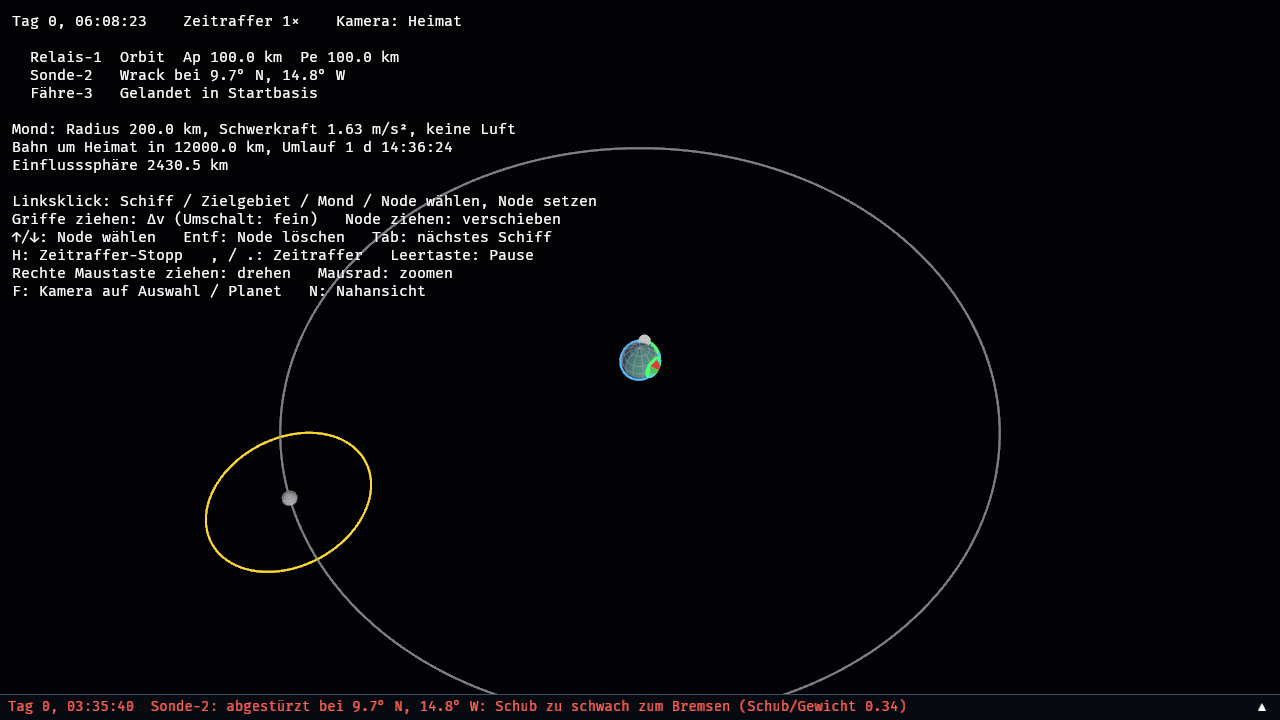
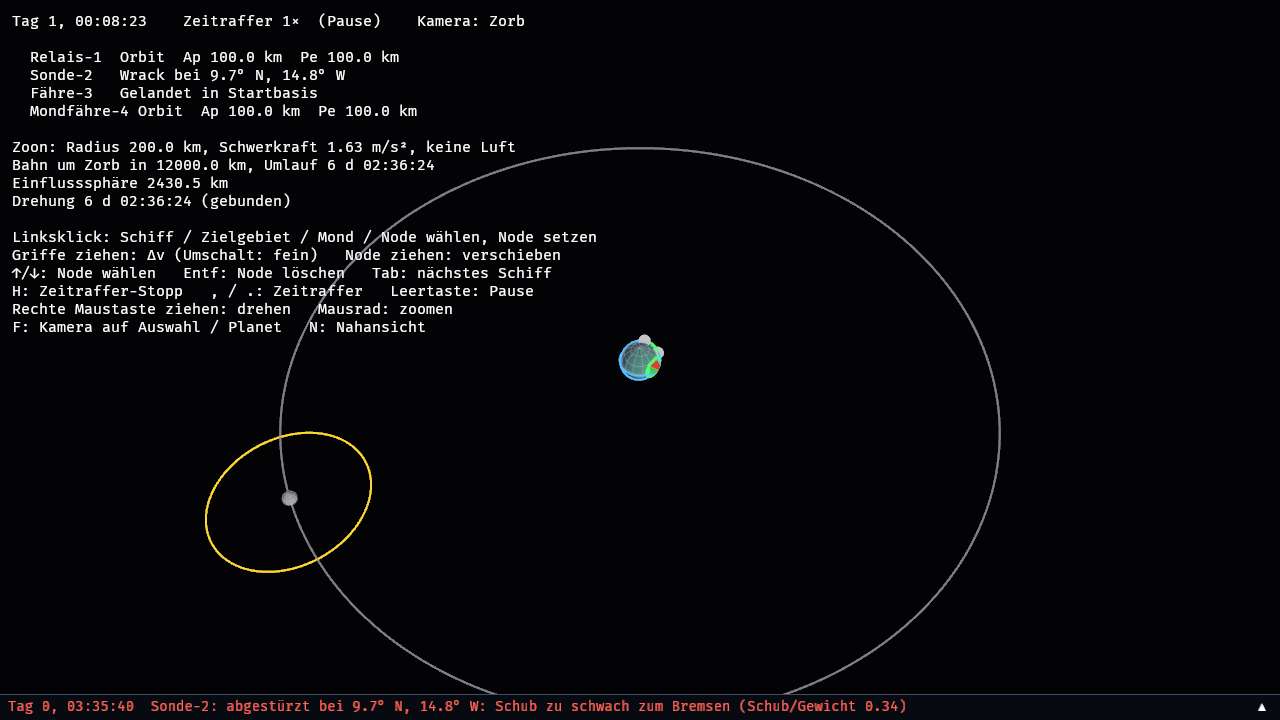
Namen: Zorb, Zoon, Zunn und die Zorbels
Der Heimatplanet heißt Zorb, sein Mond Zoon, die Sonne Zunn (bisher nur
Licht), die Bewohner Zorbels. Geändert sind nur die Namen im Szenario; alle
Anzeigen lesen sie von dort. Doku und die Mond-Bilder im README angepasst.
Alte Spielstände behalten ihre Namen.

Claude-Session: https://claude.ai/code/session_01CpcsHMR5Ewg3zEtE3pVyt3

Changed region(s): [[0.0, 0.1528, 0.4688, 0.4583], [0.25, 0.0, 0.2812, 0.0611]]

diff --git a/crates/sim/src/scenario.rs b/crates/sim/src/scenario.rs
@@ -6,14 +6,14 @@ use crate::landing::LandingZone;
 use crate::world::{Base, VesselParams, World};
 use std::f64::consts::PI;
 
-/// Fiktiver Heimatplanet in Kerbin-Größe: kleine Welt, kurze Umlaufzeiten,
-/// ein Orbit ist mit einer einzigen Stufe erreichbar.
+/// Zorb, der Heimatplanet der Zorbels, in Kerbin-Größe: kleine Welt, kurze
+/// Umlaufzeiten, ein Orbit ist mit einer einzigen Stufe erreichbar.
 pub fn home_planet() -> Body {
     let radius = 600_000.0;
     let surface_gravity = 9.81;
     let gm = surface_gravity * radius * radius;
     Body {
-        name: "Heimat".into(),
+        name: "Zorb".into(),
         gm,
         radius,
         rotation_period: 6.0 * 3600.0,
@@ -36,7 +36,7 @@ fn home_system_radius(gm: f64) -> f64 {
     DISTANCE * (gm / SUN_GM).powf(0.4)
 }
 
-/// Mond wie der Mun in KSP: 200 km Radius, g = 1,63 m/s², ohne Luft, auf
+/// Zoon, der Mond von Zorb, wie der Mun in KSP: 200 km Radius, g = 1,63 m/s², ohne Luft, auf
 /// einer Kreisbahn 12.000 km über dem Mittelpunkt des Planeten (Umlauf etwa
 /// 38,6 h, Einflusssphäre etwa 2.430 km). Gebundene Rotation: Er zeigt dem
 /// Planeten immer dieselbe Seite, Länge 0° zum Planeten hin (deshalb beginnt
@@ -45,7 +45,7 @@ pub fn moon(planet: &Body) -> Body {
     let radius = 200_000.0;
     let distance = 12_000_000.0;
     Body {
-        name: "Mond".into(),
+        name: "Zoon".into(),
         gm: 1.63 * radius * radius,
         radius,
         rotation_period: circular_period(planet.gm, distance),

diff --git a/README.md b/README.md
@@ -8,7 +8,8 @@ Warum der Code so aufgebaut ist, steht in [`docs/ARCHITEKTUR.md`](docs/ARCHITEKT
 
 ## Stand
 
-Ein Planet mit Atmosphäre und ein Mond, eine Startbasis, zwei Satelliten mit
+Der Planet Zorb, Heimat der Zorbels, mit Atmosphäre, sein Mond Zoon (die
+Sonne Zunn ist bisher nur Licht), eine Startbasis, zwei Satelliten mit
 Triebwerk, eine Fähre am Boden und eine im Orbit. „Relais-1" kreist stabil oberhalb der Atmosphäre.
 „Sonde-2" wurde zu tief abgesetzt, wird bei jedem Durchgang durch die Luft
 abgebremst (orange) und stürzt nach einigen Umläufen ab, außer man rettet sie
@@ -63,7 +64,7 @@ Flugrichtung und entfernt sich stetig (in 100 km Höhe etwa 6 km pro Umlauf).
 Es hat danach das Hauptschiff als Ziel, zum Wiederandocken. So lässt sich zum
 Beispiel ein Satellit betanken.
 
-Der Mond ist wie der Mun in KSP: 200 km Radius, Schwerkraft 1,63 m/s², keine
+Der Mond Zoon ist wie der Mun in KSP: 200 km Radius, Schwerkraft 1,63 m/s², keine
 Luft. Er kreist in 12.000 km Abstand über dem Äquator (Umlauf etwa 38,6 h) und
 zeigt dem Planeten immer dieselbe Seite. Um ihn liegt seine Einflusssphäre
 (etwa 2.430 km, dünner Kreis): Darin zählt nur seine Schwerkraft, außerhalb
@@ -76,8 +77,8 @@ Brennen. Gezeichnet wird wie in KSP: Das Stück um den Mond liegt um die
 Stelle, an der er beim Eintritt stehen wird (dort ein blasser „Geistermond“),
 kleine Ringe markieren Ein- und Austritt. Weil der Mond während des
 Vorbeiflugs weiterzieht, klafft beim Austritt eine Lücke. Links steht die
-nächste Begegnung („Begegnung: Mond in 05:07:05, Periapsis 194 km“), im Flug
-„Orbit um Mond“; Nodes um den Mond gelten relativ zu ihm, und in der
+nächste Begegnung („Begegnung: Zoon in 05:07:05, Periapsis 194 km“), im Flug
+„Orbit um Zoon“; Nodes um den Mond gelten relativ zu ihm, und in der
 Nahansicht liegt der Mond unten. Zum Ausprobieren: Mondfähre-4 mit 836 m/s
 prograd nach 10 Minuten (`--node 3,600,836,0,0`) fliegt in etwa 200 km Höhe
 am Mond vorbei; mit einem Brennen gegen die Flugrichtung an der Periapsis

diff --git a/docs/ARCHITEKTUR.md b/docs/ARCHITEKTUR.md
@@ -143,7 +143,7 @@ integriert und spürt keine Schiffe. Der erste Körper ruht im Ursprung. Die
 Einflusssphäre folgt nach Laplace aus Bahnradius und Massen: a · (m/M)^0,4
 (`body::sphere_of_influence`); darin zählt für ein Schiff nur die Schwerkraft
 des Monds (Patched Conics, ab dem Wechsel der Einflusssphäre). Der Mond im
-Spiel entspricht dem Mun in KSP (200 km, g = 1,63 m/s², 12.000 km Abstand,
+Spiel, Zoon, entspricht dem Mun in KSP (200 km, g = 1,63 m/s², 12.000 km Abstand,
 Umlauf 38,6 h, Einflusssphäre 2.430 km) und ist gebunden: Rotation und Umlauf
 haben dieselbe Dauer, Länge 0° zeigt immer zum Planeten.
 
@@ -332,6 +332,10 @@ mit Zielgebieten (die sich ebenfalls mitdrehen) ist das die richtige Größe.
 ## Getroffene Spielentscheidungen
 
 - 3D, kleine Planeten (Kerbin-Größe), **keine Raketenstufen**.
+- **Namen:** Der Heimatplanet heißt Zorb, sein Mond Zoon, die Sonne Zunn,
+  die Bewohner Zorbels. Die Namen der Himmelskörper stehen nur im Szenario
+  (`Body::name`), alle Anzeigen lesen sie von dort; alte Spielstände
+  behalten ihre Namen.
 - **Aufschlagkreuz und Bahnlinie:** Das Kreuz zeigt den genauen Punkt auf dem
   Boden (dreht mit dem Planeten), die Bahn wird ohne Planetendrehung
   gezeichnet. Dass das Ende der Linie vor dem Aufschlag nicht am Kreuz liegt,
@@ -515,7 +519,7 @@ und Modulen.
   leer, fallen zuerst nur Dienste aus (Funk, Scans, Aufträge); der Flug bleibt
   auf Schienen, Manöver laufen weiter. Ob ein Schiff ohne Strom auch nicht
   mehr steuern kann, wird später bewusst entschieden.
-- **Sonne** in der Simulation: erst für die Haushalte (Schatten, Solarertrag,
+- **Sonne** (Zunn) in der Simulation: erst für die Haushalte (Schatten, Solarertrag,
   Gleichgewichtstemperatur) und für Schiffe, die das Heimatsystem verlassen;
   für Planet und Mond mit Patched Conics wird sie nicht gebraucht. Bis dahin
   gibt es sie nur als Licht in der Darstellung. Das Heimatsystem endet an der
